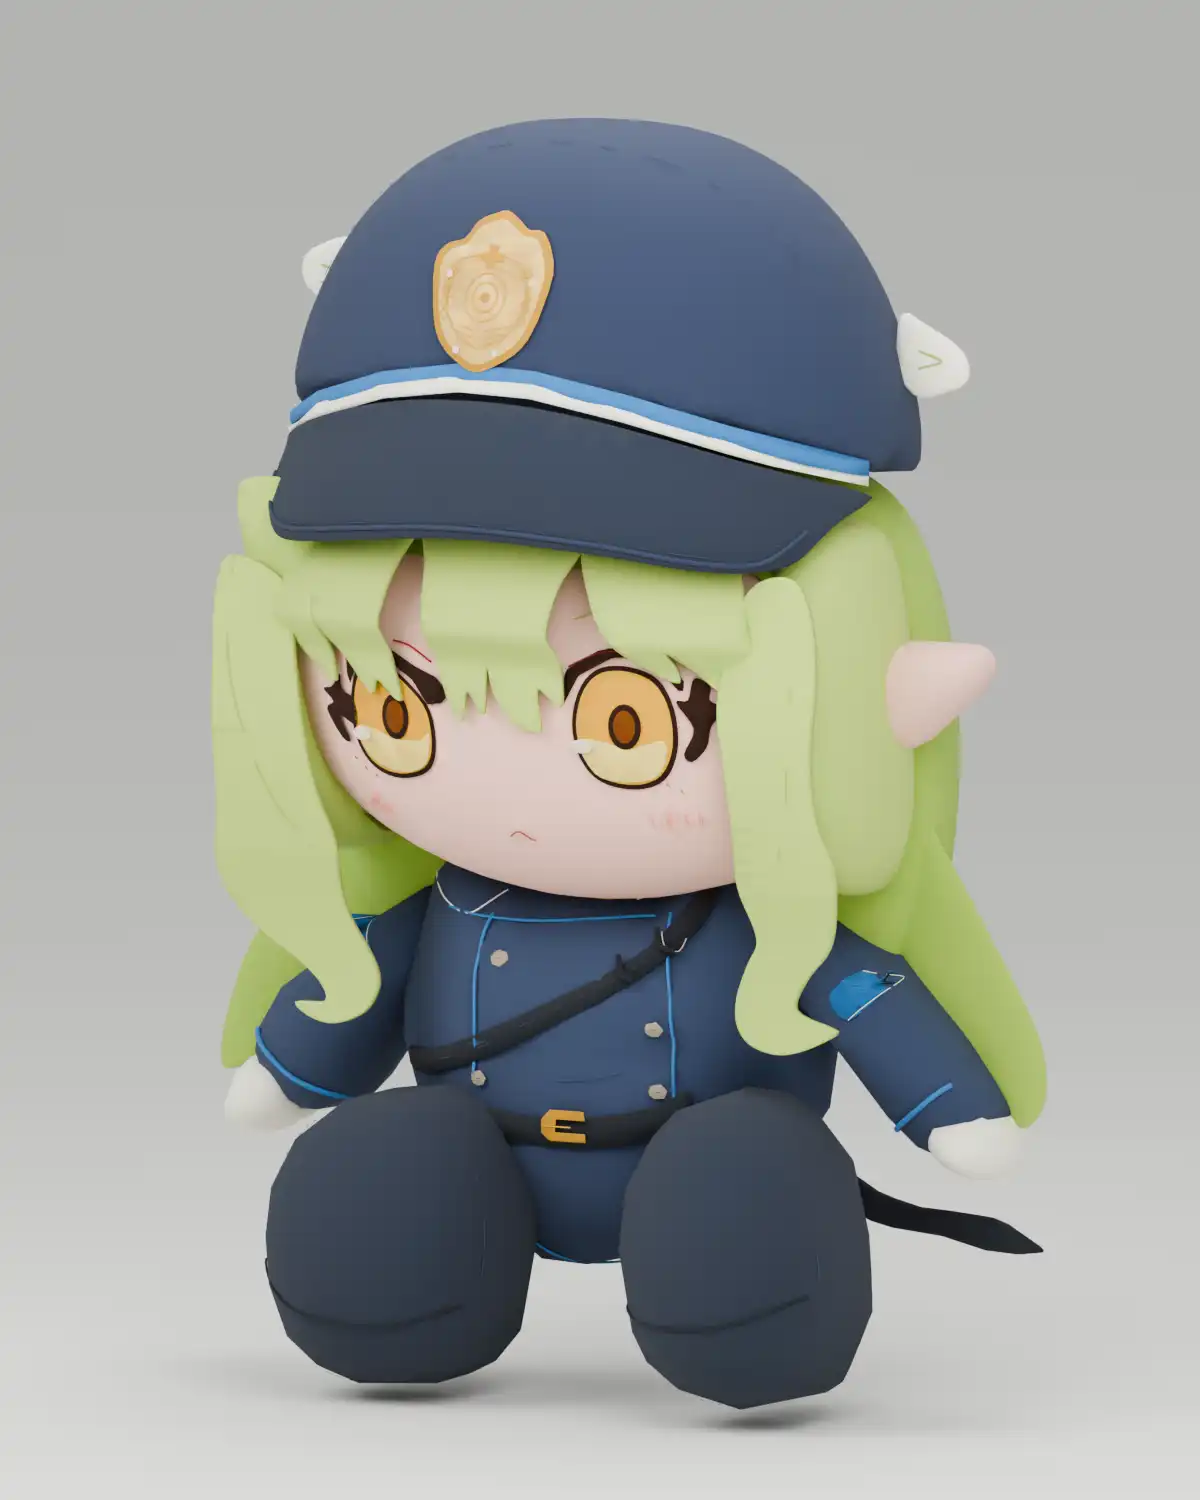
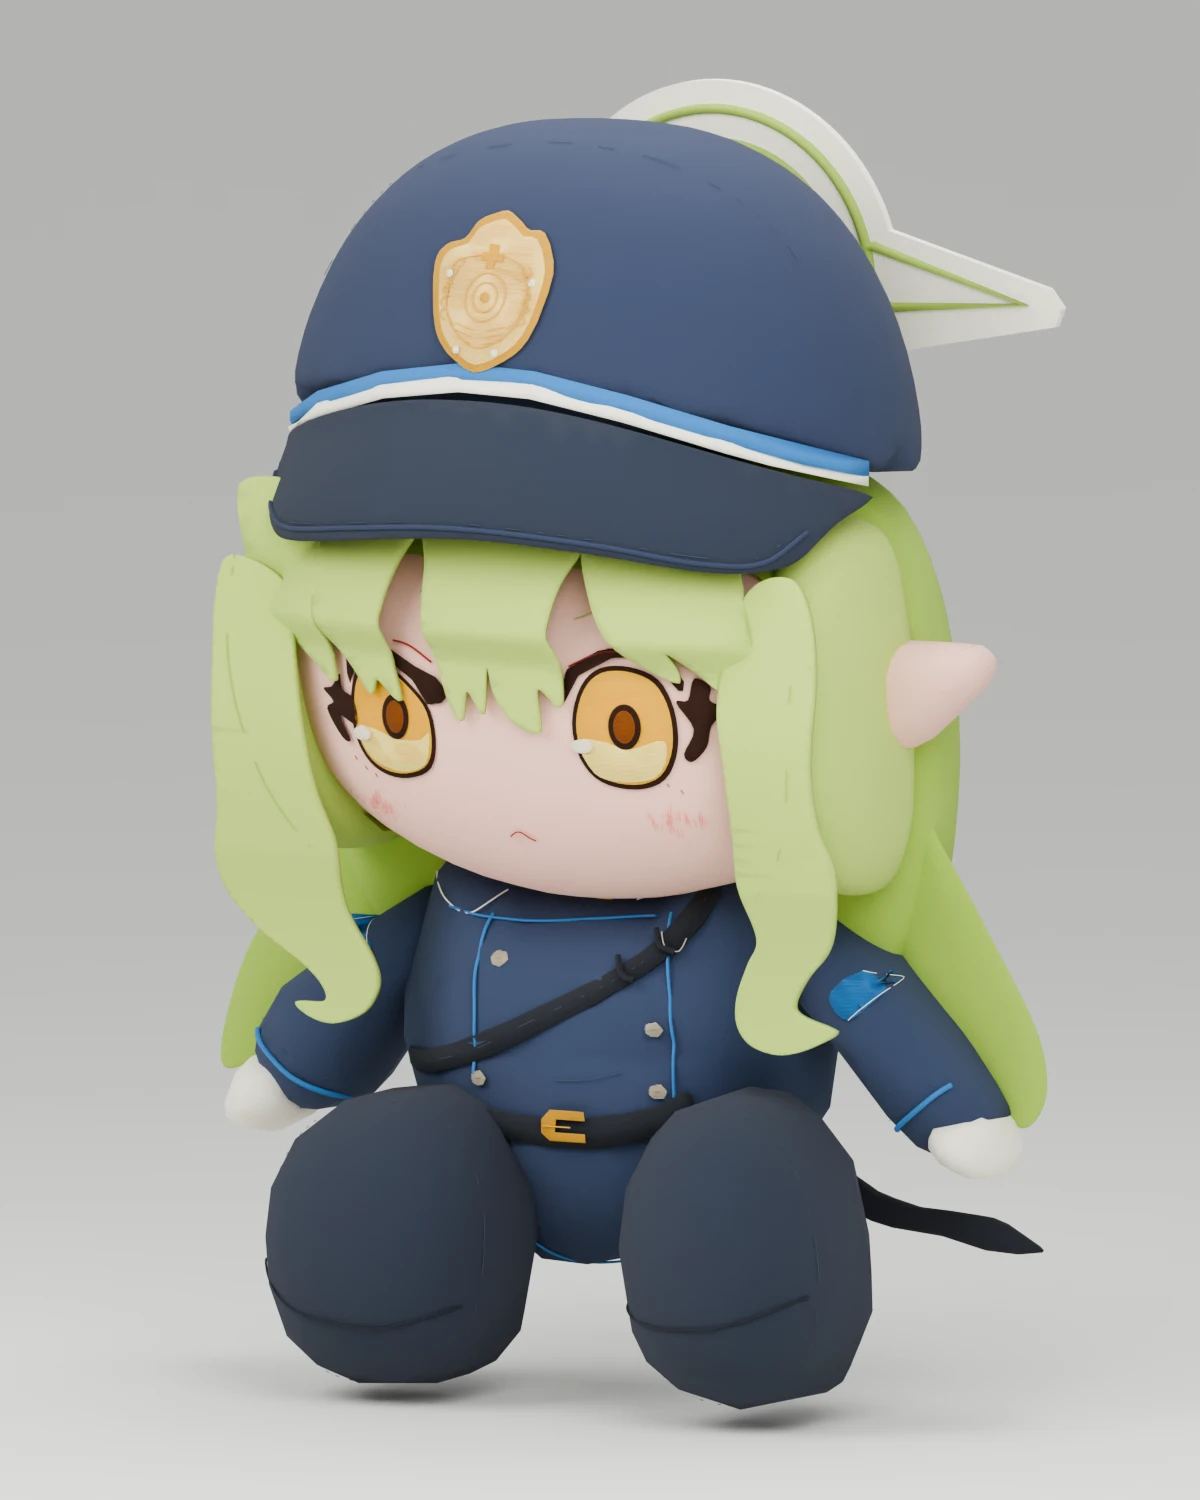
fix: restore Hikari felt halo and document v4 modelling
Assisted-by: codex:gpt-6-astra

Changed region(s): [[0.5242, 0.0307, 0.8942, 0.276], [0.2467, 0.1533, 0.3083, 0.2147]]

diff --git a/restore_halo.py b/restore_halo.py
@@ -1,0 +1,123 @@
+"""Restore Hikari's continuous felt halo, using the photographed rear of the cap."""
+
+import argparse
+import math
+import sys
+
+import bpy
+from mathutils import Vector, geometry
+
+REFERENCE = 'https://arca.live/b/bluearchive/181993371'
+
+
+def attach(obj, root, bone='head'):
+    """Keep authored world coordinates when attaching a sewn piece to its control."""
+    world = obj.matrix_world.copy()
+    rig = next((o for o in root.children if o.type == 'ARMATURE'), None)
+    obj.parent = rig or root
+    if rig:
+        obj.parent_type = 'BONE'
+        obj.parent_bone = bone
+    bpy.context.view_layer.update()
+    obj.matrix_world = world
+
+
+def felt(name, outline, material, collection, *, depth, thickness=.012):
+    """A thin X/Z felt cutout; triangulate concave outlines without a centre fan."""
+    points = [Vector((x, z)) for x, z in outline]
+    vertices, _, faces, *_ = geometry.delaunay_2d_cdt(
+        points, [], [list(range(len(points)))], 1, .000001, False)
+    mesh = bpy.data.meshes.new(name)
+    mesh.from_pydata([(p.x, depth, p.y) for p in vertices], [], faces)
+    mesh.update()
+    mesh.materials.append(material)
+    obj = bpy.data.objects.new(name, mesh)
+    collection.objects.link(obj)
+    if thickness:
+        modifier = obj.modifiers.new('Felt thickness', 'SOLIDIFY')
+        modifier.thickness = thickness
+        modifier.offset = 0
+    return obj
+
+
+def thread(name, paths, material, collection, *, radius=.008):
+    curve = bpy.data.curves.new(name, 'CURVE')
+    curve.dimensions = '3D'
+    curve.resolution_u = 1
+    curve.bevel_resolution = 1
+    curve.bevel_depth = radius
+    for path in paths:
+        spline = curve.splines.new('POLY')
+        spline.points.add(len(path) - 1)
+        for point, co in zip(spline.points, path):
+            point.co = (*co, 1)
+    curve.materials.append(material)
+    obj = bpy.data.objects.new(name, curve)
+    collection.objects.link(obj)
+    return obj
+
+
+def add_halo(root, reference_path=None):
+    collection = root.users_collection[0]
+    if bpy.context.object and bpy.context.object.mode != 'OBJECT':
+        bpy.ops.object.mode_set(mode='OBJECT')
+    # These were isolated tips of the same cutout, not separate accessories.
+    for obj in list(root.children_recursive):
+        if obj.name.startswith('Halo |'):
+            bpy.data.objects.remove(obj, do_unlink=True)
+
+    ivory = bpy.data.materials['09 | ivory embroidery']
+    green = bpy.data.materials['04 | green sewing thread']
+    # The circle sits behind the crown; only its tips show in the front photo.
+    center_z, radius = 2.88, .53
+    arc = lambda r, start, end, count: [
+        (r * math.cos(t), center_z + r * math.sin(t))
+        for t in [math.radians(start + (end - start) * i / count)
+                  for i in range(count + 1)]]
+    outline = arc(radius, 18, 162, 40) + [
+        (-.99, 2.92), (-1.03, 2.87), (-1.01, 2.82), (-.51, 2.80),
+    ] + arc(radius, 198, 342, 40) + [
+        (1.01, 2.82), (1.03, 2.87), (.99, 2.92),
+    ]
+    plate = felt('Halo | continuous ivory felt backing', outline, ivory,
+                 collection, depth=.64, thickness=.026)
+    plate['reference'] = REFERENCE + ' (image 2)'
+    plate['construction'] = 'One felt cutout behind the cap; green concentric railway motif.'
+    parts = [plate]
+
+    # Print on both sides of the felt, with a visible white margin. The asymmetry
+    # (filled left wing, outlined right wing) follows the supplied photograph.
+    for side, depth in [('front', .621), ('back', .659)]:
+        paths = []
+        for r in (.455, .365, .165):
+            points = arc(r, 0, 360, 72)
+            paths.append([(x, depth, z) for x, z in points])
+        paths += [[(x, depth, z) for x, z in path] for path in [
+            [(0.15, 2.90), (.46, 3.00), (.92, 2.875), (.52, 2.84), (.29, 2.89)],
+        ]]
+        parts.append(thread('Halo | green railway rings ' + side, paths, green,
+                            collection, radius=.014))
+        parts.append(felt('Halo | filled railway wing ' + side,
+                          [(-.92, 2.865), (-.45, 3.00), (-.49, 2.845)],
+                          green, collection, depth=depth, thickness=.002))
+    for obj in parts:
+        attach(obj, root)
+    root['halo_reference'] = REFERENCE + ' (image 2)'
+    root['limitation'] = ('Halo follows the rear cap photograph; unseen rear hair '
+                         'and clothing seams retain the existing interpretation.')
+    if reference_path:
+        ref = bpy.data.images.load(str(reference_path), check_existing=True)
+        ref.name = 'REFERENCE | Hikari cap and complete felt halo'
+        ref.pack()
+        ref.use_fake_user = True
+    return parts
+
+
+if __name__ == '__main__':
+    parser = argparse.ArgumentParser(description=__doc__)
+    parser.add_argument('--reference', help='Local copy of the second reference photograph')
+    args = parser.parse_args(sys.argv[sys.argv.index('--') + 1:] if '--' in sys.argv else [])
+    root = bpy.context.scene.objects['HIKARI | 170 mm reference plush']
+    add_halo(root, args.reference)
+    bpy.context.preferences.filepaths.save_version = 0
+    bpy.ops.wm.save_as_mainfile(filepath=bpy.data.filepath, compress=True)

diff --git a/rebuild_plush.py b/rebuild_plush.py
@@ -458,13 +458,6 @@ for side in [-1,1]:
 applique('Cap badge | crown cross',[(354,85),(363,85),(363,91),(369,91),(369,97),(362,97),(362,103),(355,103),(355,97),(350,97),(350,91),(355,91)],cap_s,gold,.014,.001,smooth=False,stitch=True)
 for p in [(323,109),(399,111),(342,165),(377,165)]: disk('Cap badge | seed stitch',p,3,3,cap_s,ivory,.015,True)
 
-for side,pts,center in [
-    ('L',[(133,118),(102,127),(90,138),(91,155),(105,168),(133,180),(152,172),(150,146)],(119,147)),
-    ('R',[(624,144),(647,151),(674,165),(684,179),(682,193),(668,201),(640,208),(621,188)],(653,177)),
-]:
-    halo,hs=pillow('Halo | pale felt tab '+side,pts,center,.09,.020,.02,ivory)
-    seam('Halo | green stitched mark '+side,[(center[0]-10,center[1]-7),(center[0]+10,center[1]),(center[0]-10,center[1]+7)],hs,hairseam,.003,offset=.003)
-
 # Short real fibres add a cloth silhouette and directional nap at close viewing distance.
 def pile(o, count, length, radius):
     import bisect
@@ -506,6 +499,10 @@ for o in list(model.objects):
 root['reference']='https://tsurumai-hobby.jp/images/item/goodsmile/4580828663398.jpg'
 root['construction']='Closed stuffed volumes, conforming felt panels, satin-stitch face and crest, woven clothing.'
 root['limitation']='Back details are interpreted from the front product photograph; no animation rig.'
+import sys
+sys.path.insert(0, str(Path(__file__).parent))
+from restore_halo import add_halo
+add_halo(root)
 ref=bpy.data.images.load('/tmp/hikari-reference.jpg',check_existing=True)
 ref.name='REFERENCE | original Chocopuni Hikari photograph'; ref.pack(); ref.use_fake_user=True
 

diff --git a/test_hikari_rig.py b/test_hikari_rig.py
@@ -111,5 +111,27 @@ if render_path:
     scene.render.filepath, scene.render.resolution_percentage, scene.cycles.samples = old
 reset()
 assert error(baseline, vertices(parts)) < 1e-5, 'Reset failed'
+
+# The restored halo is one connected backing, follows the head, and resets with it.
+halo = [o for o in parts if o.name.startswith('Halo |')]
+backing = scene.objects.get('Halo | continuous ivory felt backing')
+assert backing in halo, 'Missing continuous rear halo'
+assert all(o.parent_bone == 'head' for o in halo), 'Halo detached from head control'
+neighbors = {v.index: set() for v in backing.data.vertices}
+for edge in backing.data.edges:
+    a, b = edge.vertices
+    neighbors[a].add(b)
+    neighbors[b].add(a)
+visited, pending = set(), [0]
+while pending:
+    index = pending.pop()
+    if index not in visited:
+        visited.add(index)
+        pending.extend(neighbors[index] - visited)
+assert len(visited) == len(neighbors), 'Disconnected halo backing'
+rig.pose.bones['head'].rotation_euler.z = .3
+assert error(vertices(halo), {o.name: baseline[o.name] for o in halo}) > .1
+reset()
+assert error(baseline, vertices(parts)) < 1e-5, 'Halo reset failed'
 print(f'PASS: {len(parts)} components, 24 controls, rest preservation, weights, '
-      'bilateral independence, root movement, combined pose, reset, and duplicate guard')
+      'bilateral independence, root movement, combined pose, reset, duplicate guard, and halo')

diff --git a/render_previews.py b/render_previews.py
@@ -1,0 +1,28 @@
+"""Render the saved plush with the shared studio cameras, without saving scene changes."""
+
+import argparse
+import sys
+from pathlib import Path
+
+import bpy
+
+parser = argparse.ArgumentParser(description=__doc__)
+parser.add_argument('--prefix', default='preview')
+parser.add_argument('--output', type=Path, default=Path(__file__).parent)
+parser.add_argument('--percentage', type=int, default=100)
+parser.add_argument('--samples', type=int, default=64)
+parser.add_argument('--views', nargs='+', choices=['front', 'three_quarter', 'back'],
+                    default=['front', 'three_quarter', 'back'])
+args = parser.parse_args(sys.argv[sys.argv.index('--') + 1:] if '--' in sys.argv else [])
+scene = bpy.context.scene
+scene.render.resolution_x, scene.render.resolution_y = 1200, 1500
+scene.render.resolution_percentage = args.percentage
+scene.cycles.samples = args.samples
+scene.render.image_settings.file_format = 'WEBP'
+scene.render.image_settings.color_mode = 'RGB'
+scene.render.image_settings.quality = 90
+for view in args.views:
+    scene.camera = scene.objects[{'front': 'Front comparison', 'three_quarter': 'Three quarter',
+                                  'back': 'Back inspection'}[view]]
+    scene.render.filepath = str(args.output / f'{args.prefix}_{view}.webp')
+    bpy.ops.render.render(write_still=True)

diff --git a/model_stats.py b/model_stats.py
@@ -1,0 +1,25 @@
+"""Report base and evaluated geometry for the active Blender scene."""
+
+import json
+from collections import Counter
+
+import bpy
+
+scene = bpy.context.scene
+graph = bpy.context.evaluated_depsgraph_get()
+counts = Counter()
+categories = Counter()
+for obj in scene.objects:
+    if obj.type not in {'MESH', 'CURVE'}:
+        continue
+    counts[obj.type.lower() + '_objects'] += 1
+    if obj.type == 'MESH':
+        counts['base_mesh_vertices'] += len(obj.data.vertices)
+        categories[obj.name.split(' |')[0].split(' ')[0]] += len(obj.data.vertices)
+    evaluated = obj.evaluated_get(graph)
+    mesh = evaluated.to_mesh()
+    counts['evaluated_' + obj.type.lower() + '_vertices'] += len(mesh.vertices)
+    mesh.calc_loop_triangles()
+    counts['evaluated_triangles'] += len(mesh.loop_triangles)
+    evaluated.to_mesh_clear()
+print(json.dumps({'scene': scene.name, **counts, 'base_vertices_by_part': categories}, indent=2))

diff --git a/MODELING.md b/MODELING.md
@@ -1,0 +1,71 @@
+# Modelling notes
+
+## Hikari v4 geometry reduction
+
+The earlier “about 100,000 to 7,000 vertices” estimate should be read as a rough
+description. Measuring the committed files gives **70,058 to 7,000 base mesh
+vertices**, including the four-vertex studio floor. The student alone has 6,996.
+These are editable mesh vertices, not the final geometry after modifiers and curves.
+
+Measured in Blender 5.2.1, using the active scene at its saved neutral pose:
+
+| Metric | [v3](https://github.com/scarf005/blue-archive-chocopuni-demake/tree/4ebf76a2637015979827d92532664738f42df87b) | [v4](https://github.com/scarf005/blue-archive-chocopuni-demake/tree/6e11f322a95d01db18c0462df92bc41da3fcf557) | Reduction |
+| --- | ---: | ---: | ---: |
+| Base mesh vertices | 70,058 | 7,000 | 90.0% |
+| Evaluated mesh vertices | 87,846 | 30,766 | 65.0% |
+| Evaluated mesh + curve vertices | 220,014 | 162,934 | 25.9% |
+| Compressed `.blend` bytes | 2,071,088 | 715,280 | 65.5% |
+
+Run `blender --background <model.blend> --python model_stats.py` to report the same
+geometry counts. These measurements describe the historical v3/v4 files, before
+the rig and complete halo were added. No runtime or render-time speedup was measured.
+
+The v4 workflow applied Collapse Decimate to each mesh **before** its existing
+Solidify modifier. It left meshes with at most 50 vertices alone and disabled
+`use_collapse_triangulate`. The final allocation used these ratios:
+
+| Part | Collapse ratio |
+| --- | ---: |
+| Hair | 0.1475 |
+| Face cushion | 0.0835 |
+| Crown and visor | 0.04 |
+| Other face embroidery | 0.10 |
+| Other cap panels | 0.08 |
+| Uniform | 0.025 |
+| Shoes | 0.03 |
+| Other meshes | 0.04 |
+
+The ratios control decimation, not an exact vertex percentage. Hair retained 4,411
+base vertices because its cut edges and curls need more detail than the body.
+The face cushion, all hair meshes, crown, and visor then received Catmull–Clark
+Subdivision at **one viewport and one render level**, with `PRESERVE_CORNERS`.
+Subdivision precedes Solidify so the thin hair panels keep their cloth thickness.
+Flat embroidery, straps, and small trim did not receive Subdivision.
+
+Dense individual fabric-pile curves had already been removed in v3. Procedural
+fabric bump, weave, and sheen still provide the cloth surface. Satin-stitch and seam
+curves remained; their evaluated vertices are why the final scene is larger than
+the 7,000-vertex base mesh budget. Removing unused scenes and orphaned data and
+saving with compression reduced storage separately from geometry.
+
+For new students, start with sparse stuffed forms and shallow conforming felt
+panels. Spend vertices on hair silhouettes and facial readability; use the v4
+allocation as a guide, not a requirement to hit exactly 7,000. Keep reference photos,
+materials, editable curves, and pose controls. Do not apply a blanket decimation
+ratio to an already weighted rig.
+
+## References and inspection
+
+- [Official Chocopuni product photos](https://www.goodsmile.com/en/product/1140953/Chocopuni+Plushie+Aoba+Hikari+Nozomi)
+  establish the seated proportions, approximately 170 mm height, and fabric details.
+- [Hikari cap photograph, image 2](https://arca.live/b/bluearchive/181993371)
+  shows the continuous white felt backing, green concentric motif, and side wings.
+  The halo belongs behind the crown and follows the head control.
+- Inspect student rear/side art for details obscured in front product photos;
+  retain explicit model notes for details that the available views do not show.
+
+Render saved files with `blender --background <model.blend> --python render_previews.py`.
+Use `-- --prefix <student>_preview` for a new student's front, three-quarter, and
+back WebP previews. Inspect them beside the product photo at the same scale, then
+test head/limb movement and reset. A base vertex count alone does not validate
+silhouettes, panel intersections, a complete halo, or attachment to the rig.

diff --git a/AGENTS.md b/AGENTS.md
@@ -1,0 +1,15 @@
+# Modelling
+
+- Use the original Chocopuni product photos for proportions, fabric construction,
+  face embroidery, and clothing. Inspect the existing model and its renders before
+  extending the set.
+- Before modelling a Blue Archive student's back, obtain and inspect reference
+  images showing the student's rear or side, including hair, halo, and accessories.
+  Prefer plush rear/overhead photos for sewn construction; supplement missing views
+  with official character art or game model views. Do not infer a missing halo from
+  the front silhouette alone. Record source links and distinguish unseen details
+  from observed ones in the model notes.
+- Follow [MODELING.md](MODELING.md) for the v4 geometry budget and validation.
+  Keep the generation scripts reproducible, and preserve the editable pose rig.
+- Validate saved models in Blender, including front, three-quarter, and back renders
+  and movement/reset of attached details. Commit each student's model separately.

diff --git a/README.md b/README.md
@@ -7,6 +7,10 @@
 - recreates [hikari chocopuni](https://www.amiami.com/eng/detail/?gcode=GOODS-04779988) as a blender model using [GPT-6](https://openai.com/index/gpt-6-astra/) astra high
 - model has around 7000 vertices
 
+The complete felt halo is restored from [the rear cap photograph (image 2)](https://arca.live/b/bluearchive/181993371).
+See the [back preview](./preview_back.webp) and [modelling notes](./MODELING.md) for
+the reference workflow and the measured v4 geometry reduction.
+
 ## Posing
 
 Open `hikari_chocopuni.blend`, select `HIKARI | pose rig`, and enter Pose Mode.
